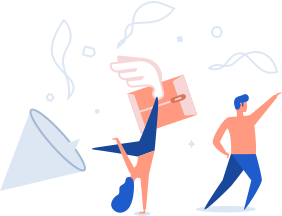
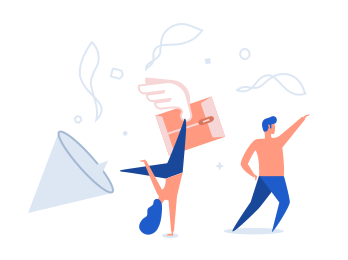
DFS-6206 DocuSign Apps Launcher Negotiate and Collaboration Marketing page updates. (#407)
* DFS-6206 updates

* label updates

* updates to images

* translation file updates

diff --git a/pkg/main/default/aura/DocumentGenerationMarketing/DocumentGenerationMarketing.css b/pkg/main/default/aura/DocumentGenerationMarketing/DocumentGenerationMarketing.css
@@ -20,10 +20,6 @@
     text-align: end;
 }
 
-.THIS .ds-marketing-video-image {
-    cursor: pointer;
-}
-
 .THIS .ds-marketing-features-section {
     background: rgb(243, 242, 242);
     border-top: 1px solid rgb(243, 242, 242);
@@ -54,6 +50,7 @@
 .THIS .ds-marketing-features-product-header {
     font-size: t(fontSize6);
     font-weight: t(fontWeightBold);
+    white-space: nowrap;
 }
 
 .THIS .ds-marketing-features-supportedProduct-section {

diff --git a/pkg/main/default/aura/NegotiateMarketing/NegotiateMarketing.css b/pkg/main/default/aura/NegotiateMarketing/NegotiateMarketing.css
@@ -20,10 +20,6 @@
     text-align: end;
 }
 
-.THIS .ds-marketing-video-image {
-    cursor: pointer;
-}
-
 .THIS .ds-marketing-features-section {
     background: rgb(243, 242, 242);
     border-top: 1px solid rgb(243, 242, 242);
@@ -54,6 +50,7 @@
 .THIS .ds-marketing-features-product-header {
     font-size: t(fontSize6);
     font-weight: t(fontWeightBold);
+    white-space: nowrap;
 }
 
 .THIS .ds-marketing-features-supportedProduct-section {
